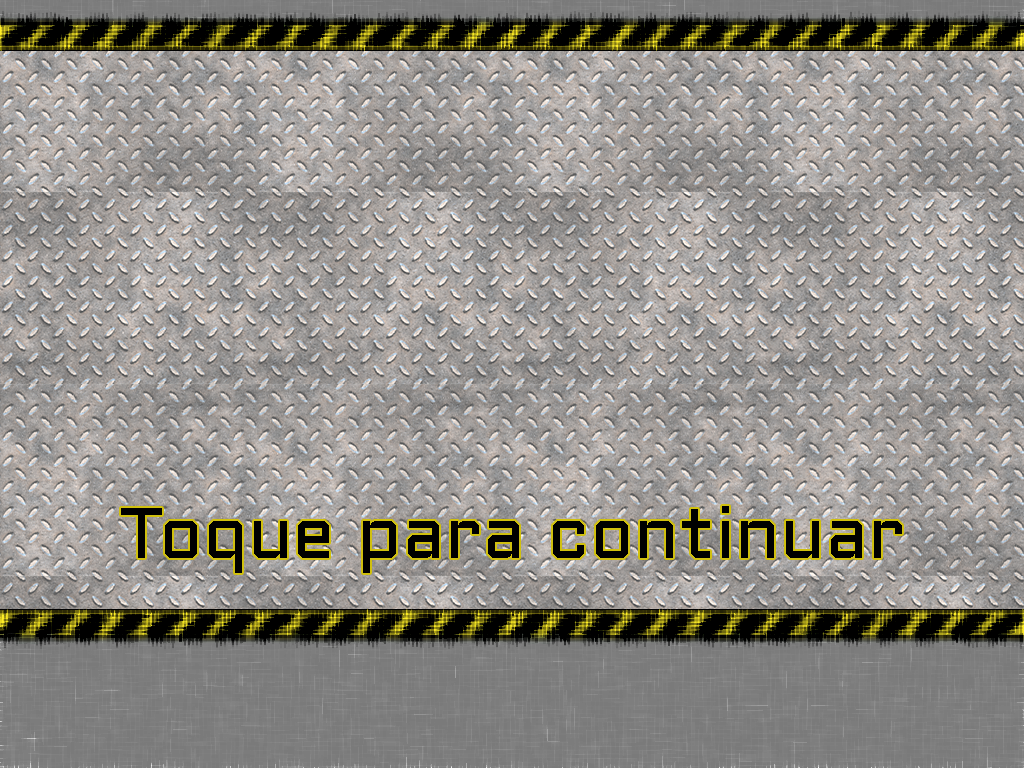
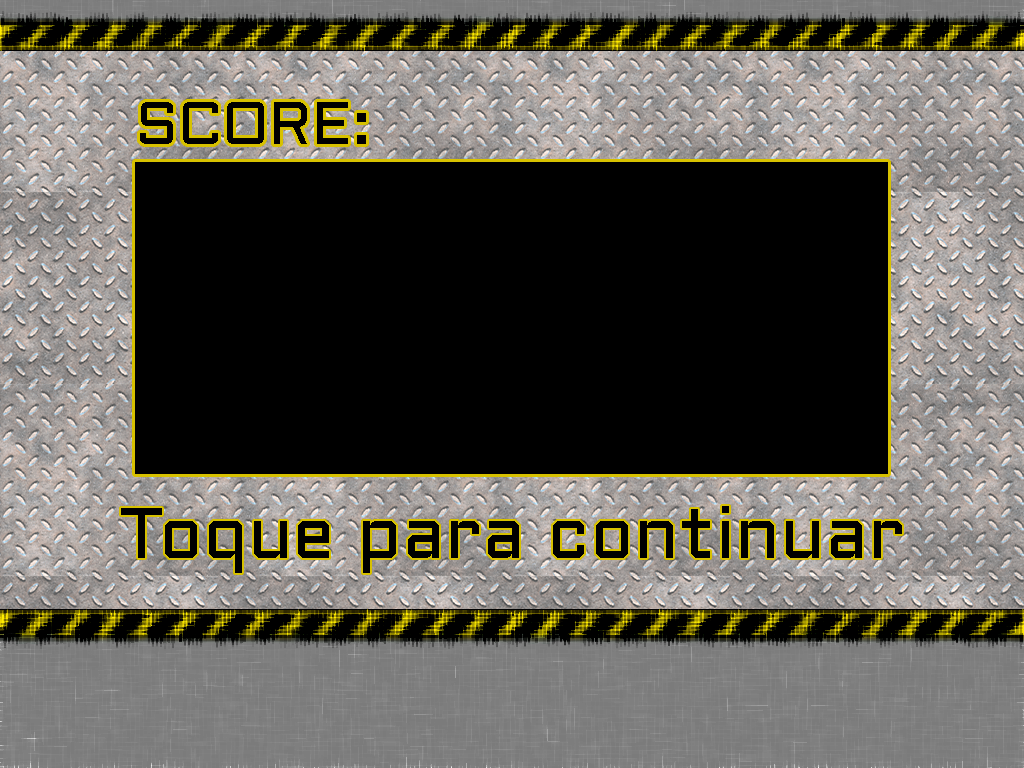
update

diff --git a/core/src/com/jetpoo/game/states/GameOverState.java b/core/src/com/jetpoo/game/states/GameOverState.java
@@ -4,7 +4,9 @@ import com.badlogic.gdx.InputAdapter;
 import com.badlogic.gdx.graphics.g2d.SpriteBatch;
 import com.badlogic.gdx.Gdx;
 import com.badlogic.gdx.graphics.Texture;
+import com.badlogic.gdx.graphics.g2d.TextureRegion;
 import com.jetpoo.game.JetPoo;
+import com.jetpoo.game.useful.Animation;
 
 /**
  * Created by pedromiranda on 01/06/17.
@@ -12,14 +14,25 @@ import com.jetpoo.game.JetPoo;
 
 public class GameOverState extends State{
 
+    private int score;
+    private Animation numbers;
+    private Texture score_board;
 
     public GameOverState(GameStateManager gsm, JetPoo game, int score) {
         super(gsm, game);
+        this.score = score;
         cam.setToOrtho(false, JetPoo.WIDTH, JetPoo.HEIGHT);
         game.playServices.submitScore(score);
 
         initTouchListener();
+        getAssets();
 
+    }
+
+    private void getAssets(){
+        Texture tmp = game.getAssetManager().get("others/numbers.png", Texture.class);
+        numbers = new Animation(new TextureRegion(tmp), 10, 1 );
+        score_board = game.getAssetManager().get("others/score_board.png", Texture.class);
     }
 
     private void initTouchListener(){
@@ -49,12 +62,65 @@ public class GameOverState extends State{
         Texture background =  game.getAssetManager().get("background/Game_Over_bg.png", Texture.class);
         sb.draw(background, 0,0);
 
+        displayScore(sb);
+
         sb.end();
     }
 
     @Override
     public void dispose() {
         //nothing to dispose
+    }
+
+    private void displayScore(SpriteBatch sb){
+
+        /*
+        * Mostra números de até 4 digitos
+        * */
+        int space = 30;
+        int number = score;
+        int x = 250;
+
+        //sb.draw(score_board, 14 , JetPoo.HEIGHT - 102, 242, 100);
+
+        for(int i=0; i < 4; i++ ){
+
+            switch (number % 10){
+                case 0:
+                    sb.draw(numbers.getFrame(0), x +(3-i)*(space+100) , JetPoo.HEIGHT/2, 100, 160);
+                    break;
+                case 1:
+                    sb.draw(numbers.getFrame(1), x + (3-i)*(space+100) , JetPoo.HEIGHT/2, 100, 160);
+                    break;
+                case 2:
+                    sb.draw(numbers.getFrame(2), x + (3-i)*(space+100) , JetPoo.HEIGHT/2, 100, 160);
+                    break;
+                case 3:
+                    sb.draw(numbers.getFrame(3), x + (3-i)*(space+100) , JetPoo.HEIGHT/2, 100, 160);
+                    break;
+                case 4:
+                    sb.draw(numbers.getFrame(4), x + (3-i)*(space+100) , JetPoo.HEIGHT/2, 100, 160);
+                    break;
+                case 5:
+                    sb.draw(numbers.getFrame(5), x + (3-i)*(space+100) , JetPoo.HEIGHT/2, 100, 160);
+                    break;
+                case 6:
+                    sb.draw(numbers.getFrame(6), x + (3-i)*(space+100) , JetPoo.HEIGHT/2, 100, 160);
+                    break;
+                case 7:
+                    sb.draw(numbers.getFrame(7), x + (3-i)*(space+100) , JetPoo.HEIGHT/2, 100, 160);
+                    break;
+                case 8:
+                    sb.draw(numbers.getFrame(8), x + (3-i)*(space+100) , JetPoo.HEIGHT/2, 100, 160);
+                    break;
+                case 9:
+                    sb.draw(numbers.getFrame(9), x + (3-i)*(space+100) , JetPoo.HEIGHT/2, 100, 160);
+                    break;
+            }
+            number /= 10;
+
+        }
+
 
     }
 }

diff --git a/core/src/com/jetpoo/game/JetPoo.java b/core/src/com/jetpoo/game/JetPoo.java
@@ -3,19 +3,14 @@ package com.jetpoo.game;
 import com.badlogic.gdx.ApplicationAdapter;
 import com.badlogic.gdx.Gdx;
 import com.badlogic.gdx.assets.AssetManager;
-import com.badlogic.gdx.audio.Music;
 import com.badlogic.gdx.graphics.GL20;
-import com.badlogic.gdx.graphics.Texture;
 import com.badlogic.gdx.graphics.g2d.SpriteBatch;
 import com.jetpoo.game.states.GameStateManager;
 import com.jetpoo.game.states.LoadingState;
-import com.jetpoo.game.states.MenuState;
 import com.jetpoo.game.Server.PlayServices;
 
-import static com.sun.org.apache.xalan.internal.xsltc.compiler.util.Type.Text;
 
 public class JetPoo extends ApplicationAdapter {
-
 
 	public static final int WIDTH = 1024;
 	public static final int HEIGHT = 768;
@@ -25,9 +20,6 @@ public class JetPoo extends ApplicationAdapter {
 	private GameStateManager gsm;
 	private SpriteBatch batch;
 	private AssetManager assetManager;
-
-	private Music music;
-
 
 	@Override
 	public void create () {
@@ -42,11 +34,6 @@ public class JetPoo extends ApplicationAdapter {
 	 * Starts the game.
 	 */
 	private void startGame() {
-		//music = Gdx.audio.newMusic(Gdx.files.internal("music.mp3"));
-		//music.setLooping(true);
-		//music.setVolume(0.1f);
-		//music.play();
-		//Gdx.gl.glClearColor(1, 0, 0, 1);
 		gsm.push(new LoadingState(gsm, this));
 	}
 
@@ -61,12 +48,10 @@ public class JetPoo extends ApplicationAdapter {
 	@Override
 	public void dispose() {
 		super.dispose();
-		//music.dispose();
 		assetManager.dispose();
 	}
 
 	public JetPoo(){
-
 	}
 
 	public JetPoo(PlayServices playServices)
@@ -78,5 +63,6 @@ public class JetPoo extends ApplicationAdapter {
 	public AssetManager getAssetManager(){
 		return assetManager;
 	}
+
 
 }
